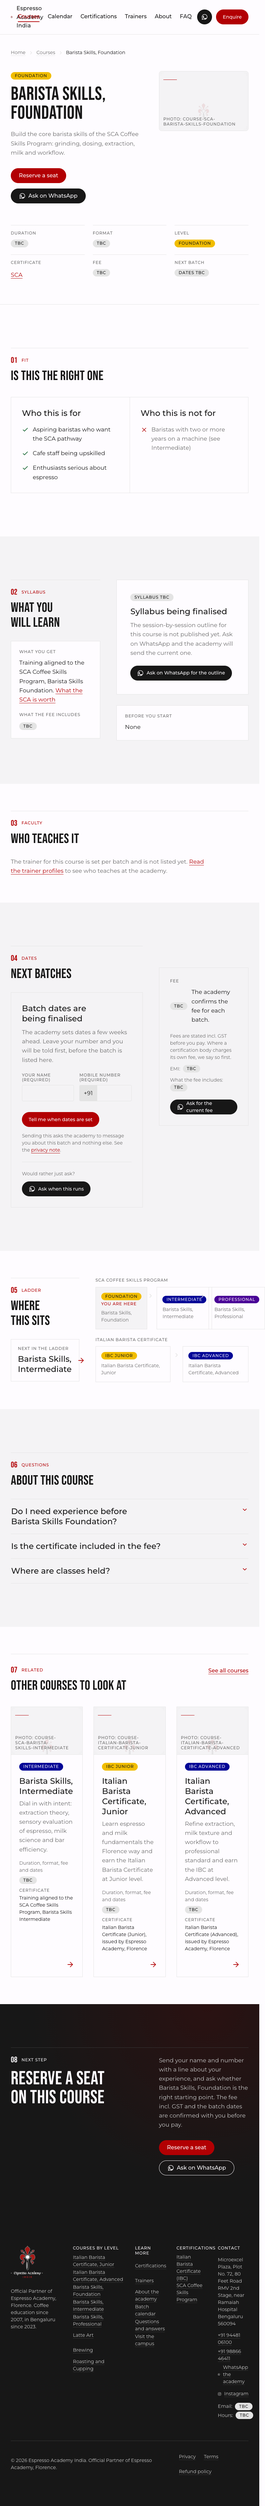
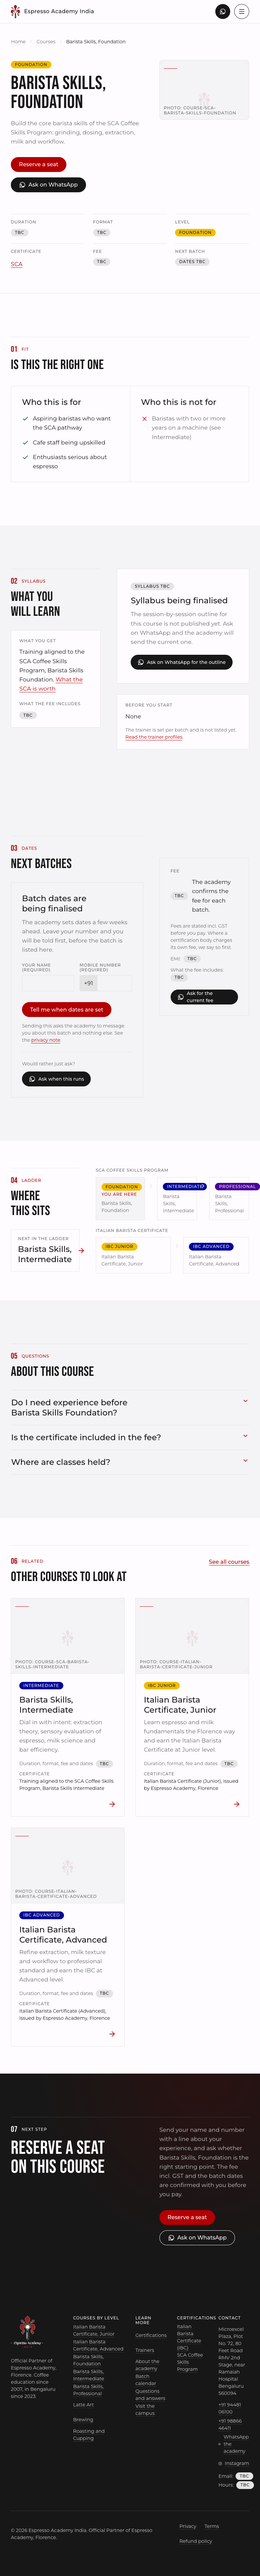
docs: record the exact stopping point and the next steps
Work stopped mid-Phase 8b, at the fifth design-review round. Everything through
Phase 8 is complete, committed and verified: 772 tests passing, no overflow at
390/768/1280, no forbidden colour pair, every tap target at 44px, and Lighthouse
mobile at 92 to 99 Performance with 100 across the other three categories.

The important caveat is recorded at the top of STATUS.md and again in the handover
section: the deployed URL is behind the code by three rounds of design fixes,
including the 768px header collapse and the level-ladder overflow. It needs a
redeploy before anyone is shown it.

Also recorded: the fifth design review's verdict was never received, so the
per-page scores against the 8/10 target are unverified rather than passing, and
the qa-runner confirmation pass has not been run.

Claude-Session: https://claude.ai/code/session_018SQWtZdWSx93z76i45toKF

diff --git a/docs/STATUS.md b/docs/STATUS.md
@@ -7,6 +7,9 @@ do. Updated at the end of every phase.
 
 Public, no login. Open it on a phone.
 
+> **This URL is serving an older build.** Work stopped before the final redeploy. See
+> "Where this stopped, and what to do next" below: redeploy before sending it to anyone.
+
 A note on why that is the alias and not a `-git-`/hash preview URL: previews on this Vercel team
 are protected by Vercel Authentication, so a preview link asks the client to log in to Vercel
 before it will render. The alias above is public and stable across redeploys, which is what a
@@ -225,6 +228,74 @@ three widths and the Playwright suite has an iPad Mini project.
   pair, and Lighthouse mobile 90 to 96 Performance with 100 across Accessibility, Best Practices
   and SEO.
 
+
+---
+
+## Where this stopped, and what to do next
+
+**Stopped mid-Phase 8b, at the fifth design-review round.** Everything through Phase 8 is complete,
+committed and verified. The work is on `main`; the tree is clean.
+
+### The one thing to know first
+
+**The deployed site is behind the code.** `https://espresso-academy-india.vercel.app` was last
+deployed before the final three rounds of design fixes, so it is missing:
+
+- the header fix (at 768 to 880 the deployed build crushes the logo to 5px wide and prints the
+  wordmark over the navigation)
+- the level-ladder overflow fix (the deployed build pushes the document 17px wide at 768)
+- the FAQ question size fix (14px questions above their own 16px answers)
+- the conditional faculty section, the courses-hub renumbering and the tablet layout fixes
+
+**Redeploy before showing anyone.** From the repo root:
+
+```
+pnpm build && pnpm test:e2e     # confirm green first
+vercel deploy --prod --yes      # puts the current build on the public alias
+```
+
+Then re-take the client screenshots, which are also from the older build:
+
+```
+node scripts/preview-screens.mjs
+```
+
+### Immediate next steps, in order
+
+1. **Redeploy** (above). Nothing else in this list is blocking.
+2. **Finish the fifth design-review round.** A `design-reviewer` subagent was mid-analysis when
+   work stopped; its verdict was never received. Re-run it against a rebuilt local server on
+   port 3000, reviewing `/`, `/courses`, `/courses/sca-barista-skills-foundation` and `/about` at
+   390, 768 and 1280. Round four scored 6.5 / 6.0 / 6.5 / 6.0 across all three widths; every one of
+   its findings has since been applied, but **the resulting scores are unverified**. The phase
+   target is 8/10 on every page. Treat the current scores as unknown, not as passing.
+3. **Run the `qa-runner` subagent.** This is Phase 9 step 1 and was never run. Everything it covers
+   has been run by hand and passes, so it is a confirmation pass rather than expected to find
+   anything.
+4. **Write `docs/CLIENT-REVIEW.md`'s covering note** and send it with the URL. The file is written;
+   it just needs the redeployed URL confirmed at the top.
+
+### What is verified as of this commit
+
+Run against a local production build (`pnpm build && pnpm start`):
+
+| Check | Result |
+|---|---|
+| `pnpm typecheck` | clean |
+| `pnpm lint` | clean |
+| `pnpm build` | clean, 43 routes generated |
+| `pnpm test:e2e` | **772 passing**, 0 failing, across chromium, webkit, Pixel 7, iPhone 14, iPad Mini |
+| `node scripts/check-overflow.mjs` | no overflow on any route at 390, 768 or 1280 |
+| `node scripts/check-brand-contrast.mjs` | no forbidden colour pair on any route |
+| `node scripts/check-target-size.mjs` | every standalone tap target at least 44px |
+| Lighthouse mobile | Performance 92 to 99, Accessibility 100, Best Practices 100, SEO 100 |
+
+### Nothing is half-finished in the code
+
+Every phase committed is complete in itself. There is no partial refactor, no stubbed function and
+no TODO that blocks a build. The `TODO(client)` comments throughout `src/` are deliberate markers
+for content the academy has not sent; each one has a visible TBC state on the page and a row in the
+"Needs client" table above.
 
 ---
 
